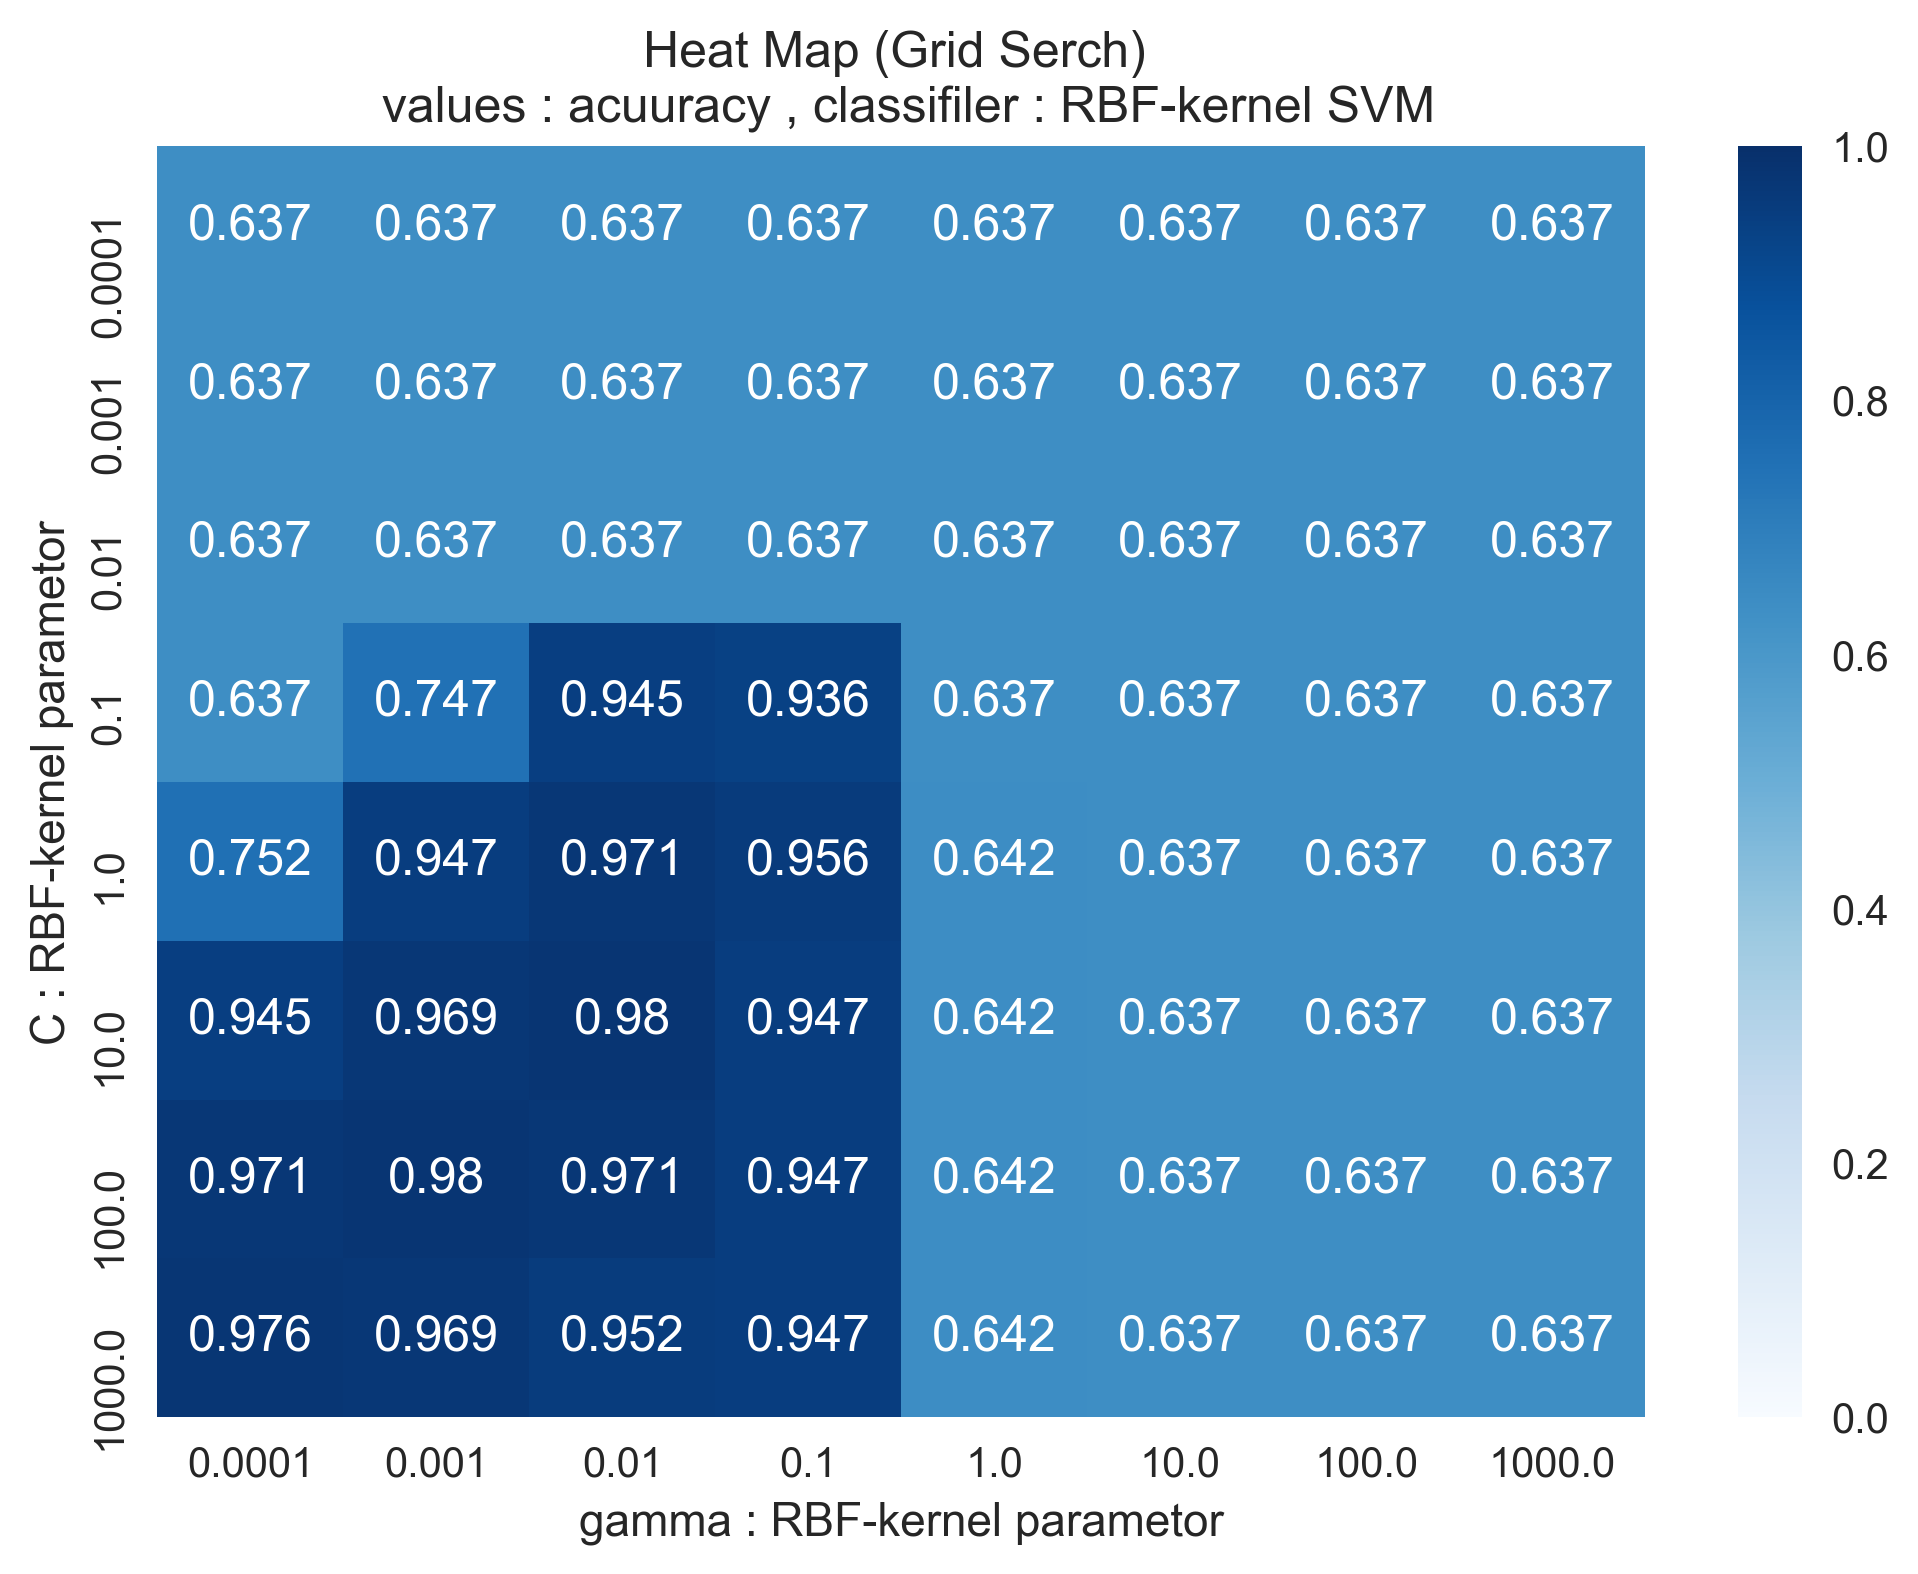
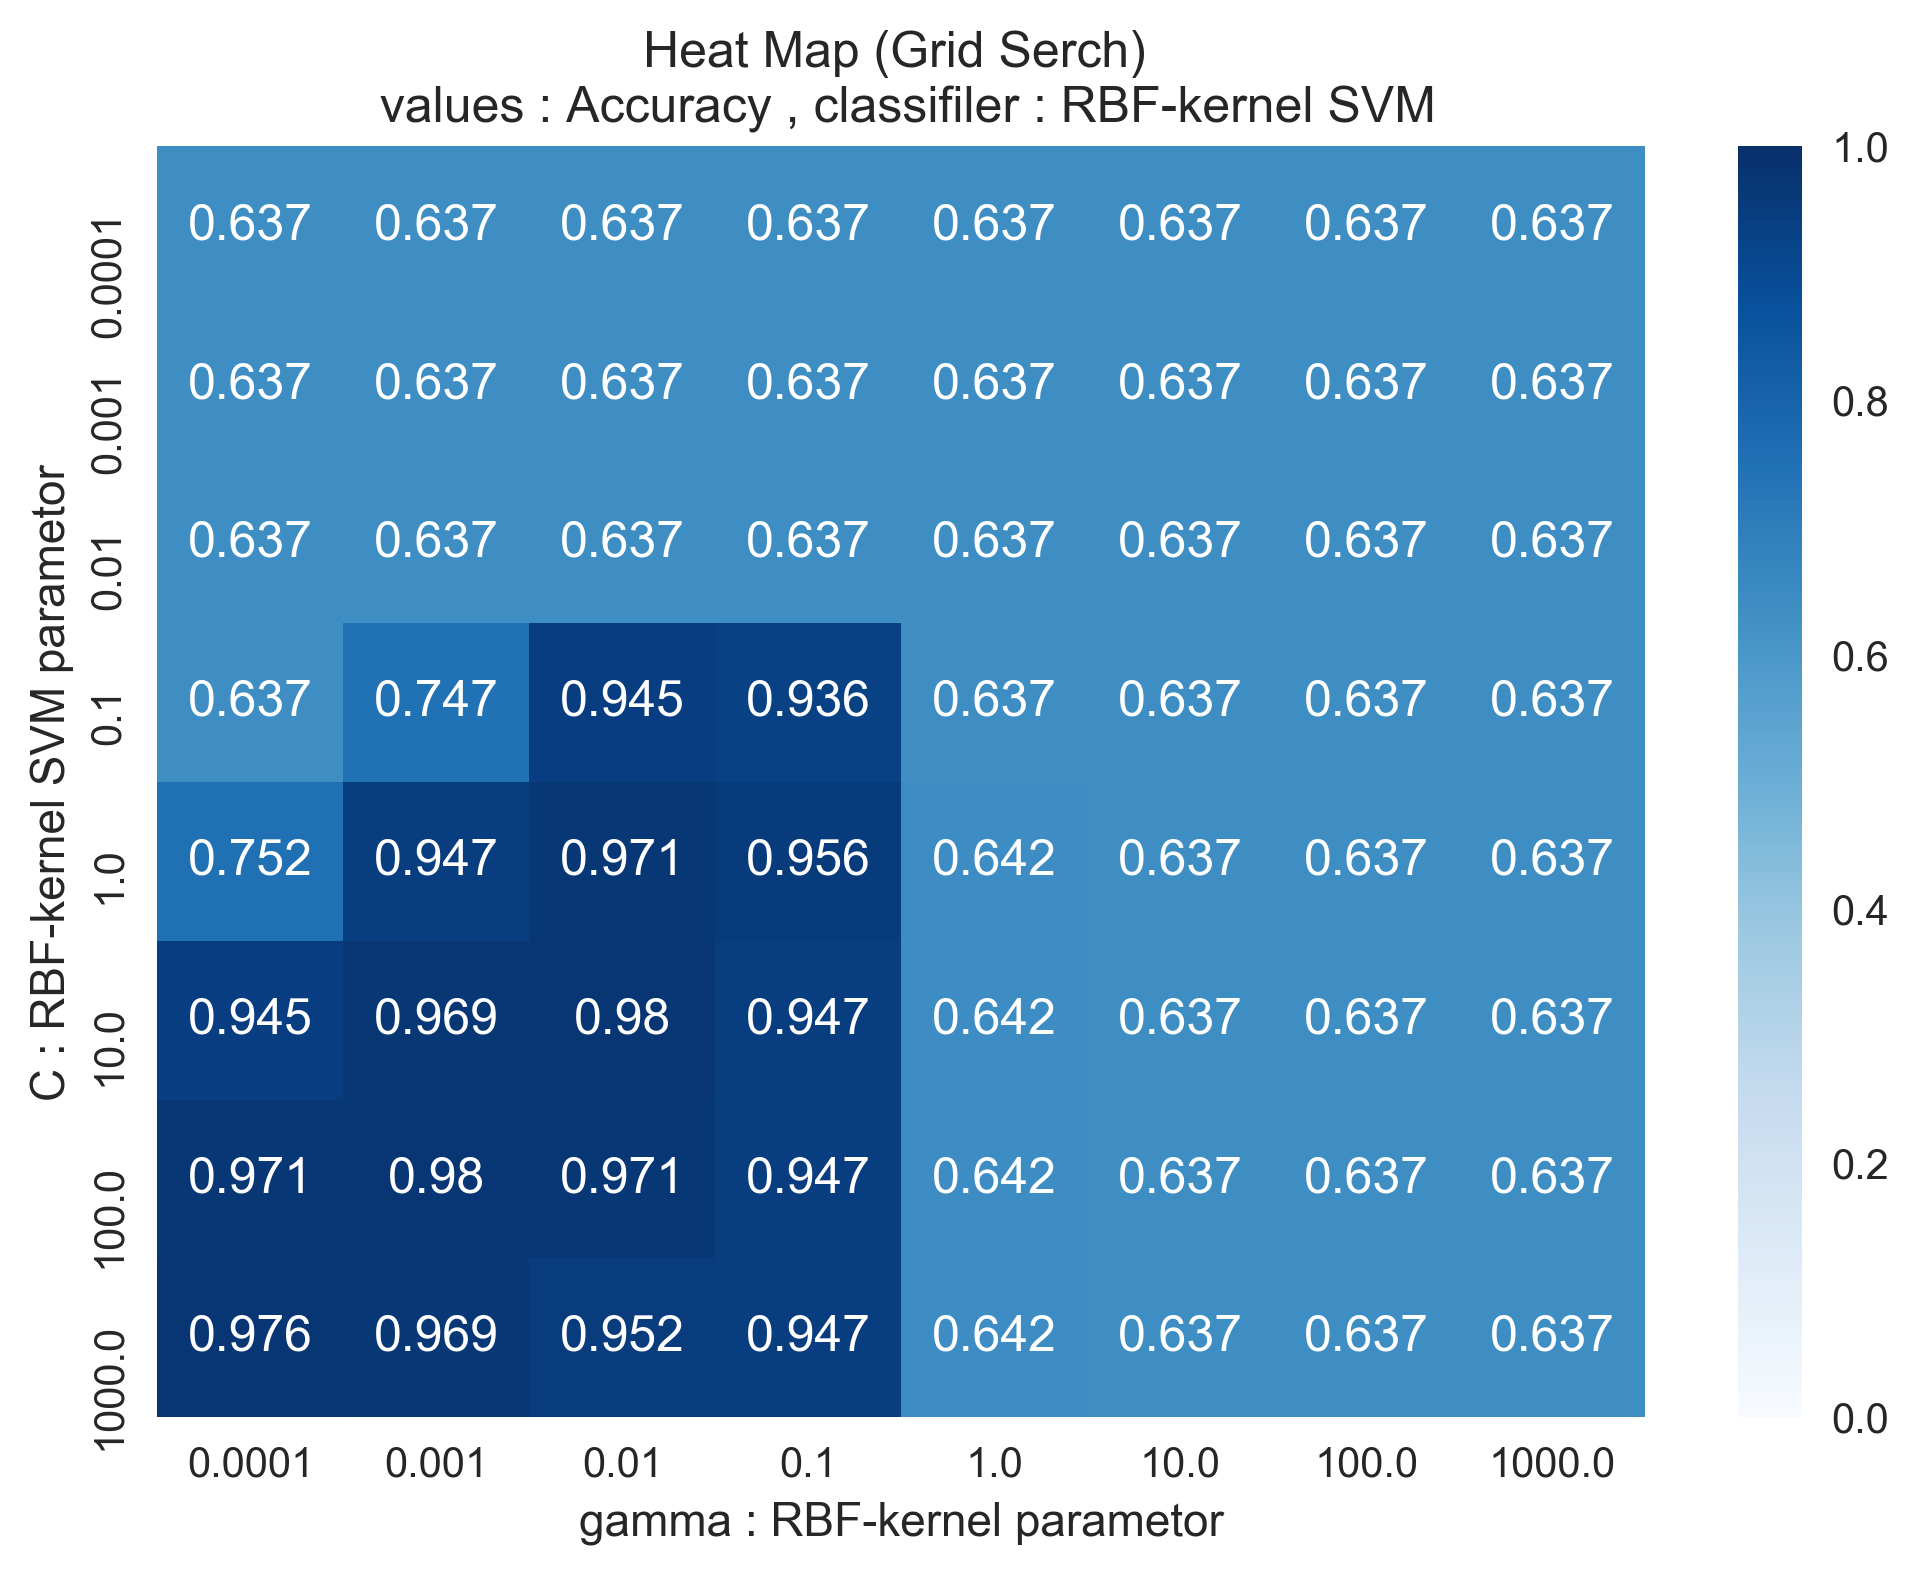
Add files via upload
誤記修正

diff --git a/MachineLearningPipeline_scikit-learn/main3.py b/MachineLearningPipeline_scikit-learn/main3.py
@@ -70,7 +70,6 @@ def main():
 
     #print( "Test Accuracy: %.3f" % pipe_csvm.score( X_test, y_test ) )
 
-
     
     #==============================
     # grid search
@@ -79,10 +78,10 @@ def main():
     param_range_C = [0.0001, 0.001, 0.01, 0.1, 1.0, 10.0, 100.0, 1000.0]
     param_range_gamma = [0.0001, 0.001, 0.01, 0.1, 1.0, 10.0, 100.0, 1000.0]
 
-    # グリッドサーチでチューニングしたいパラメータ : ディクショナリ（辞書）のリストで指定
+    # グリッドサーチでチューニングしたいモデルとそのパラメータ : ディクショナリ（辞書）のリストで指定
     param_grid = [
-        { 'clf__C': param_range_C, 'clf__kernel': ['linear'] },                           # liner C-SVM
-        { 'clf__C': param_range_C, 'clf__gamma': param_range_gamma, 'clf__kernel': ['rbf'] }    # RBF-kernel C-SVM
+        { 'clf__C': param_range_C, 'clf__kernel': ['linear'] },                                # liner C-SVM
+        { 'clf__C': param_range_C, 'clf__gamma': param_range_gamma, 'clf__kernel': ['rbf'] }   # RBF-kernel C-SVM
     ]
 
     # グリッドサーチを行う,GridSearchCV クラスのオブジェクト作成
@@ -127,7 +126,7 @@ def main():
     # グリッドサーチを行う
     gs = gs.fit( X_train, y_train )
 
-    # 
+    # grid_scores_ 属性から正解率を抽出
     gs_params = []
     gs_mean_scores = []
     gs_scores = []
@@ -157,8 +156,8 @@ def main():
         dat_y = heatmap_y         # y 軸の目盛り
     )
     
-    plt.title("Heat Map (Grid Serch) \n values : acuuracy , classifiler : RBF-kernel SVM")
-    plt.ylabel( "C : RBF-kernel parametor" )
+    plt.title("Heat Map (Grid Serch) \n values : Accuracy , classifiler : RBF-kernel SVM")
+    plt.ylabel( "C : RBF-kernel SVM parametor" )
     plt.xlabel( "gamma : RBF-kernel parametor" )
 
     plt.savefig("./MachineLearningPipeline_scikit-learn_3.png", dpi = 300, bbox_inches = 'tight' )

diff --git a/MachineLearningPipeline_scikit-learn/README.md b/MachineLearningPipeline_scikit-learn/README.md
@@ -98,7 +98,7 @@ https://archive.ics.uci.edu/ml/machine-learning-databases/breast-cancer-wisconsi
 > グリッドサーチが対象とするパラメータのヒートマップ : 作図に `seaborn.heatmap()` を使用
 >> 以下のヒートマップ図より、推定器として、RBF-kernel SVM を使用した場合、最も正解率が高くなるパラメータ（ハイパーパラメータ）は、C = 10, gamma = 0.01 (Accuracy = 0.980) となることが分かる。
 
-![machinelearningpipeline_scikit-learn_3](https://user-images.githubusercontent.com/25688193/29507896-243adec0-868d-11e7-9f5e-5ccbb8531eff.png)
+![machinelearningpipeline_scikit-learn_3](https://user-images.githubusercontent.com/25688193/29512943-bc59e370-869e-11e7-8c4c-e4bac940d390.png)
 
 
 > `GridSearchCV()` によるグリッドサーチの結果
@@ -106,9 +106,9 @@ https://archive.ics.uci.edu/ml/machine-learning-databases/breast-cancer-wisconsi
 |グリッドサーチの結果|values|
 |---|---|
 |最もよいスコアを出したモデルの正解率 </br> `sklearn.model_selection.GridSearchCV.best_score_`|0.980|
-|最もよいスコアを出したモデルのパラメータ </br> `sklearn.model_selection.GridSearchCV.best_params_`| liner C-SVM の C 値 : 10.0 </br> {'clf__C': 10.0, 'clf__gamma': 0.01, 'clf__kernel': 'rbf'}|
-|`sklearn.model_selection.GridSearchCV.grid_scores_`||
+|最もよいスコアを出したモデルのパラメータ </br> `sklearn.model_selection.GridSearchCV.best_params_`| RBF-kernel SVM の C 値 : 10.0, ガンマ値 : 0.01 </br> {'clf__C': 10.0, 'clf__gamma': 0.01, 'clf__kernel': 'rbf'}|
 |最もよいスコアを出したモデルでのテストデータでの正解率 </br> `sklearn.model_selection.GridSearchCV.best_estimator_`| 0.982|
+|`sklearn.model_selection.GridSearchCV.grid_scores_`||
 
 ### ROC 曲線よるモデルの汎化性能の評価 : </br> `main4().py`
 
